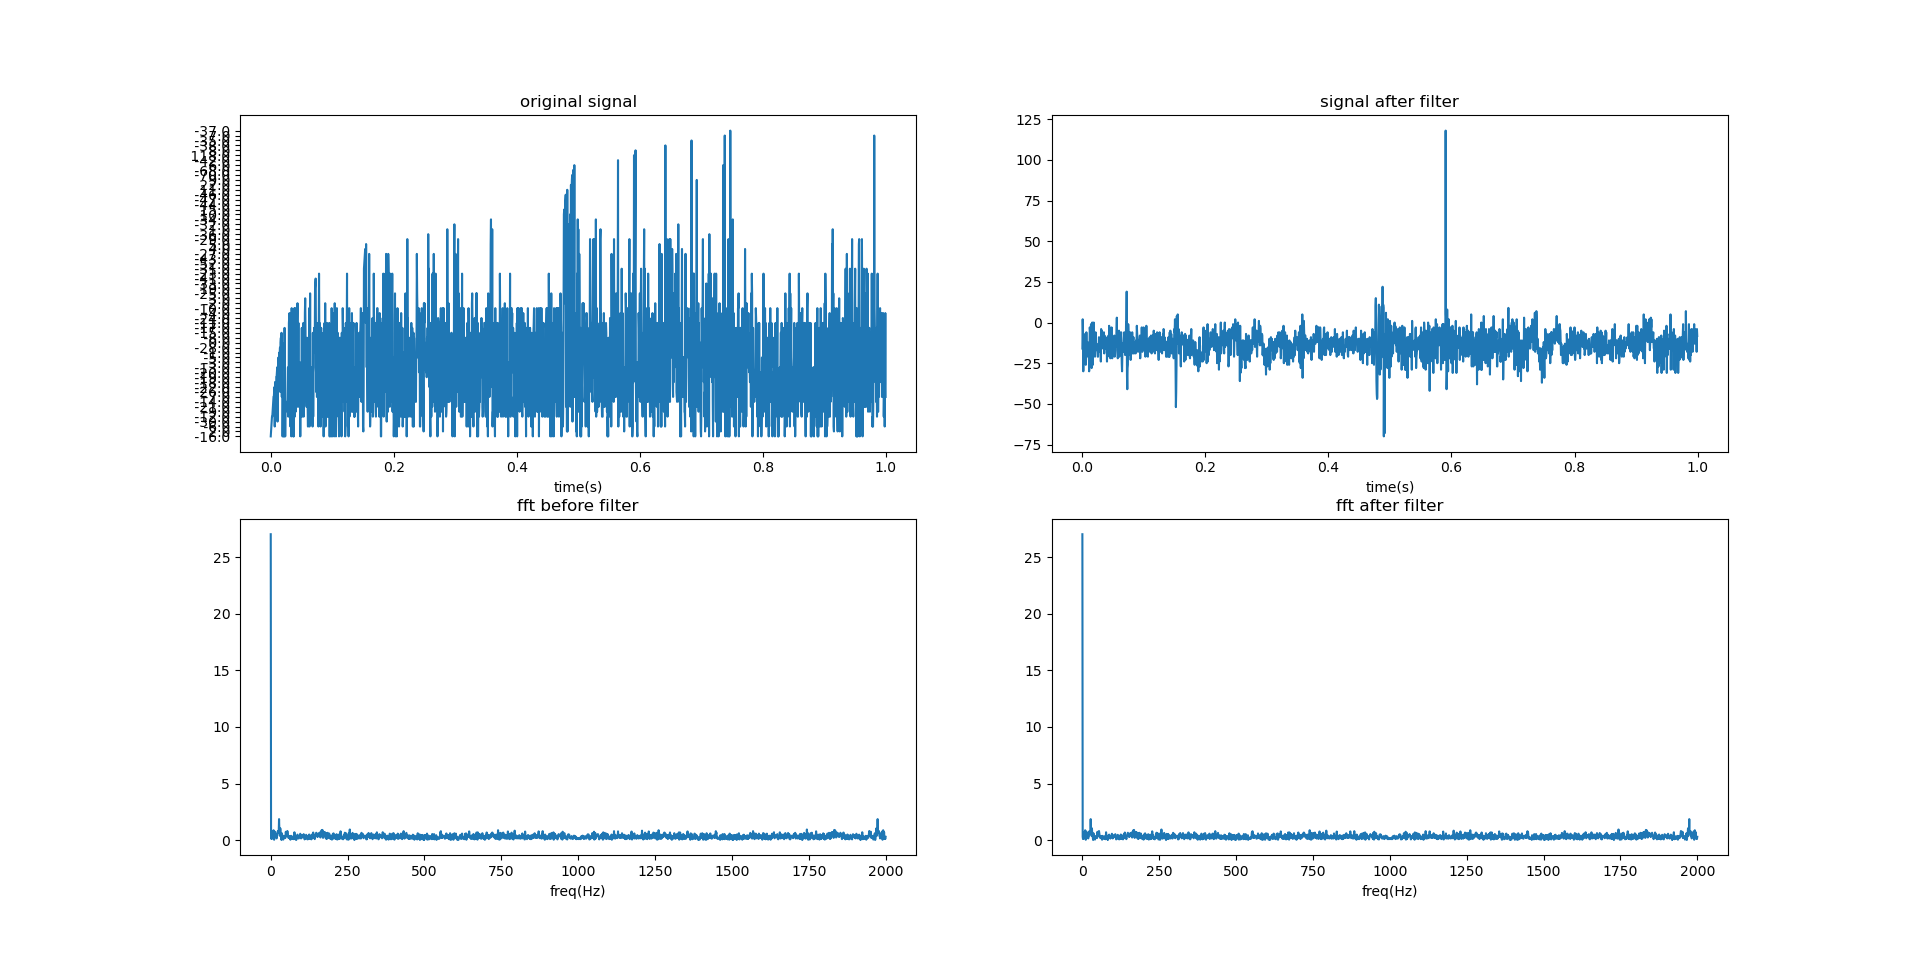
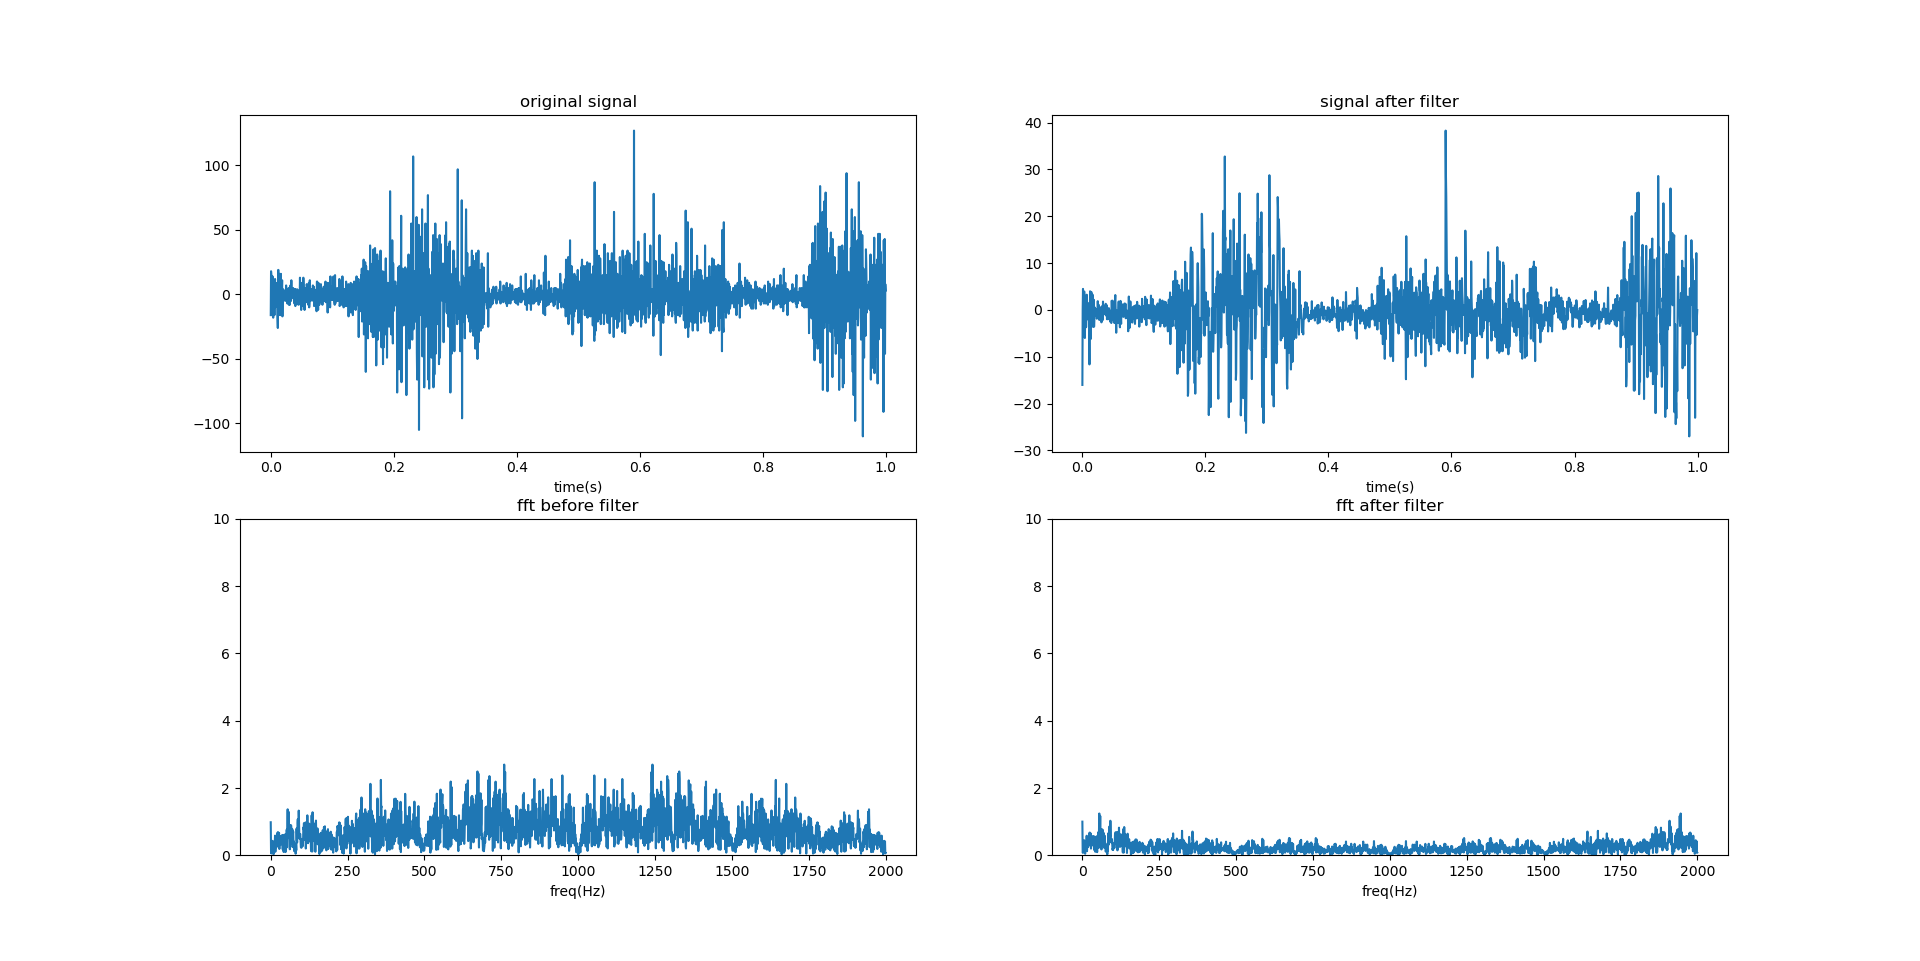
SpectrumAnalysis

diff --git a/feature_extraction/features/SpectrumAnalysis.py b/feature_extraction/features/SpectrumAnalysis.py
@@ -1,32 +1,28 @@
 import pylab as pl
 import numpy as np
 import csv
+
+
 from IIRFilter import LowPassIIR
 
 # This is to determine the frequency range of the interference
-# Channel 8 is the best to see the plot
 
 def main():
 
-    IIR = LowPassIIR(a=0.7)
-
     with open('emg.csv','r') as f:
         reader = csv.reader(f)
-        data = [row[7] for row in reader]
+        data = [row[4] for row in reader]
+        data = list(map(float,data))
 
     fs = 2000
     t = [x/2000.0 for x in range(2000)]
-
-    # filter
-    for i in range(0,2000):
-        data_fil = list(map(float,data))
-        data_fil[i] = IIR.filter(data_fil[i])
 
     # original signal
     pl.subplot(221)
     pl.plot(t,data)
     pl.xlabel('time(s)')
     pl.title("original signal")
+
     # Sampling points
     N = len(t)
     # Resolution
@@ -37,22 +33,23 @@ def main():
     # *2/N reflects the relationship between the result of
     # FFT transformation and the actual signal amplitude
     absY = [np.abs(x) for x in Y]
-    # the modulus of the Fourier transform result
-    # Spectrum analysis
+    # Plot fft before filter
     pl.subplot(223)
     pl.plot(f,absY)
     pl.xlabel('freq(Hz)')
     pl.title("fft before filter")
+    pl.ylim((0,10))
+
+    # filter
+    IIR = LowPassIIR(a=0.7, y=data)
+    data_fil = IIR.filter(data)
 
     pl.subplot(222)
     pl.plot(t,data_fil)
     pl.xlabel('time(s)')
     pl.title("signal after filter")
-    # Sampling points
     N = len(t)
-    # Resolution
     df = fs/(N-1)
-    # Build frequency array
     f = [df*n for n in range(0,N)]
     Y = np.fft.fft(data_fil)*2/N
     absY = [np.abs(x) for x in Y]
@@ -60,7 +57,7 @@ def main():
     pl.plot(f,absY)
     pl.xlabel('freq(Hz)')
     pl.title("fft after filter")
-
+    pl.ylim((0,10))
     pl.show()
 
 if __name__ == '__main__':
